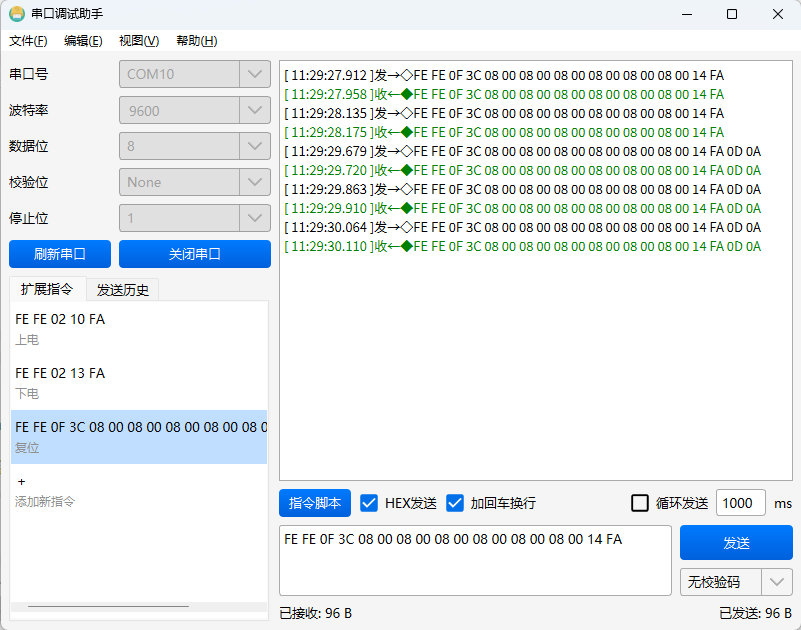
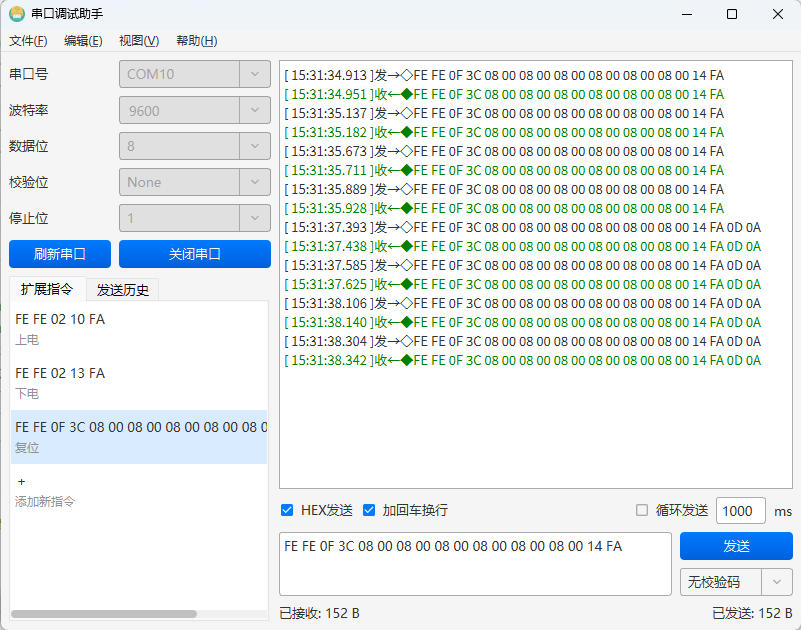
docs: 更新项目说明与数据结构文档

diff --git a/README.md b/README.md
@@ -143,18 +143,18 @@ SerialPortDebugger/
 ├── main.cpp                     # 程序入口，高 DPI 适配
 ├── DebuggerApplication.*        # 自定义 QApplication，加载字体、样式表
 ├── MainWindow.* / .ui           # 主窗口，核心 UI 交互逻辑
-├── SerialPortManager.*          # 串口管理器（单例，独立线程）
+├── SerialPortManager.*          # 串口管理器（单例 + Facade，独立线程）
 ├── SerialPortObserver.*         # 串口观察者（遗留/备用组件）
 ├── DatabaseWrapper.*            # 数据库封装（单例，SQLite CRUD）
 ├── TaskExecutor.*               # 脚本任务执行器（QTimer 异步顺序执行）
 ├── CommandItemWidget.*          # 自定义指令列表项组件
 ├── SaveCommandDialog.* / .ui    # 添加/编辑指令对话框
 ├── CommandScriptDialog.* / .ui  # 指令脚本配置对话框（支持拖拽排序）
-├── Utils.*                      # 工具类（HEX 转换、CRC-8/CRC-16/XOR/Checksum 校验码计算）
-├── Logger.*                     # 日志系统（带 ANSI 颜色码、边框样式）
+├── Utils.*                      # 工具类（HEX 转换、CRC-8/CRC-16/XOR/Checksum）
+├── Logger.*                     # 日志系统（ANSI 颜色码、边框样式）
 ├── GlobalDefinition.hpp         # 全局数据结构定义
 ├── style.qss                    # 亮色主题 QSS 样式表
-├── style_dark.qss               # 暗色主题 QSS 样式表（teal 主色调）
+├── style_dark.qss               # 暗色主题 QSS 样式表
 ├── image.qrc                    # 图片资源
 ├── font.qrc                     # 字体资源（微软雅黑）
 ├── style.qrc                    # 样式资源
@@ -188,9 +188,21 @@ main.cpp
 **设计模式**：
 
 - **SerialPortManager**：单例 + Facade 模式，Worker 运行在独立 QThread，UI 通过 `QMetaObject::invokeMethod` 跨线程安全调用
-- **DatabaseWrapper**：单例模式，封装 SQLite CRUD
+- **DatabaseWrapper**：单例模式，封装 SQLite CRUD 操作
 - **TaskExecutor**：基于 QTimer 的异步顺序任务执行器
 - **Utils / Logger**：纯静态工具类
+
+### 📦 数据结构
+
+项目中定义了以下核心数据结构（`GlobalDefinition.hpp`）：
+
+| 结构体               | 用途                           |
+|:------------------|:-----------------------------|
+| `DefaultCommand`  | 指令值 + 备注                     |
+| `DatabaseCommand` | 继承 DefaultCommand，增加数据库主键 ID |
+| `Task`            | 指令内容 + 发送间隔（毫秒）              |
+| `ScriptConfig`    | 指令 + 备注 + 发送间隔，用于脚本配置对话框     |
+| `PortMessage`     | 串口消息：数据、方向、时间戳、格式化时间         |
 
 ## 🔧 构建说明
 
@@ -240,4 +252,4 @@ mingw32-make    # Windows (MinGW)
 
 ## 📄 许可证
 
-本项目基于 MIT 许可证开源，详见 [LICENSE](LICENSE)。
+本项目基于 GNU General Public License v3.0 开源，详见 [LICENSE](LICENSE)。